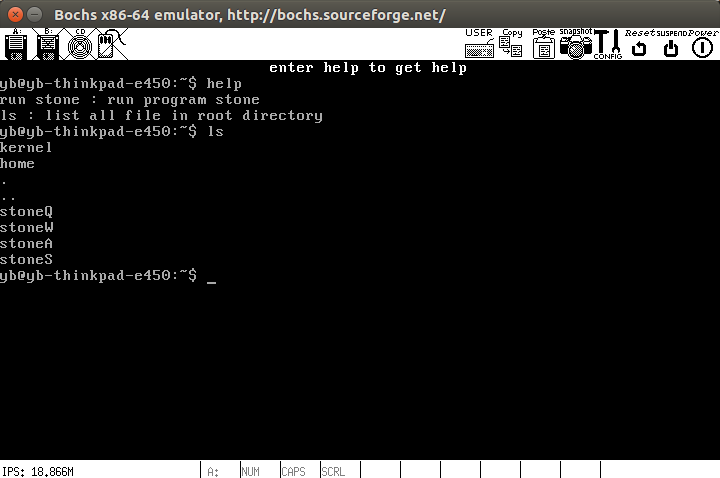
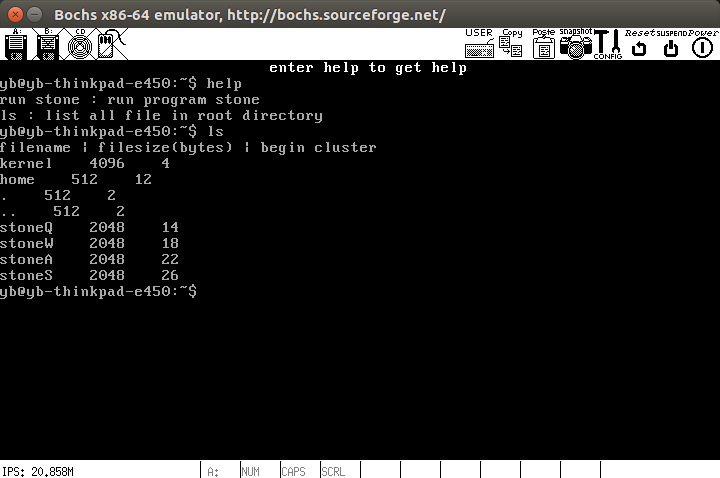
trivial. new feature

diff --git a/step_3/user/terminal.c b/step_3/user/terminal.c
@@ -5,7 +5,8 @@
 #define BACK_SPACE 8
 #define BUFFER_SIZE 64
 #define PROMT "yb@yb-thinkpad-e450:~$ "
-#define HELP_MSG "run stone : run program stone\n\r" \
+#define HELP_MSG "run <program> : run program <program>\n\r" \
+    "run stoneQ: run program stoneQ.bin\n\r" \
     "ls : list all file in root directory"
 char CMD_BUFFER[BUFFER_SIZE + 10] = {};
 void parseCMD(int );
@@ -95,7 +96,7 @@ void parseCMD(int CMDindex) {
         FAT_ITEM* pfat = CUR_DIR;
         if (__FAT_showable_item(pfat)) {
             puts(pfat->filename);
-            puti(pfat->filename);
+            puti(pfat->filesize);
             puts("    ");
             puti(pfat->blow_cluster);
             newline();
@@ -107,7 +108,7 @@ void parseCMD(int CMDindex) {
             if (__FAT_showable_item(pfat)) {
                 puts(pfat->filename);
                 puts("    ");
-                puti(pfat->filename);
+                puti(pfat->filesize);
                 puts("    ");
                 puti(pfat->blow_cluster);
                 newline();

diff --git a/latex/16337269_颜彬_实验三.tex b/latex/16337269_颜彬_实验三.tex
@@ -663,7 +663,7 @@ uint16_t reservedSector = *(uint16_t*)(bpb+3);
 
 uint16_t dataBlockBase = hiddenSector + reservedSector 
     + numberOfFAT * sectorPerFAT
-    + 1;
+    + 10节;
 uint16_t rootSectorNth = dataBlockBase + 2 * sectorPerCluster;
 
     \end{lstlisting}
@@ -722,7 +722,9 @@ static inline int printf(const char* format, ...) {
     
     图\label{fig:runfiles}为输入run命令的截图。当用户run一个文件夹时，终端会报出无法运行文件夹的
     错误。若run一个系统文件（如kernel.bin)，终端会报出无法运行系统保护文件的错误。运行不存在的文件
-    会报出文件不存在。仅当运行的文件存在且能被执行时，程序才会被执行。
+    会报出文件不存在。仅当运行的文件存在且能被执行时，程序才会被执行。 \\ 
+
+    \textbf{这次实验将stone文件改成了一个字母在屏幕中飘动。由于截图效果不好，请自行运行查看。}
 
     
     \begin{figure}[!htb]
